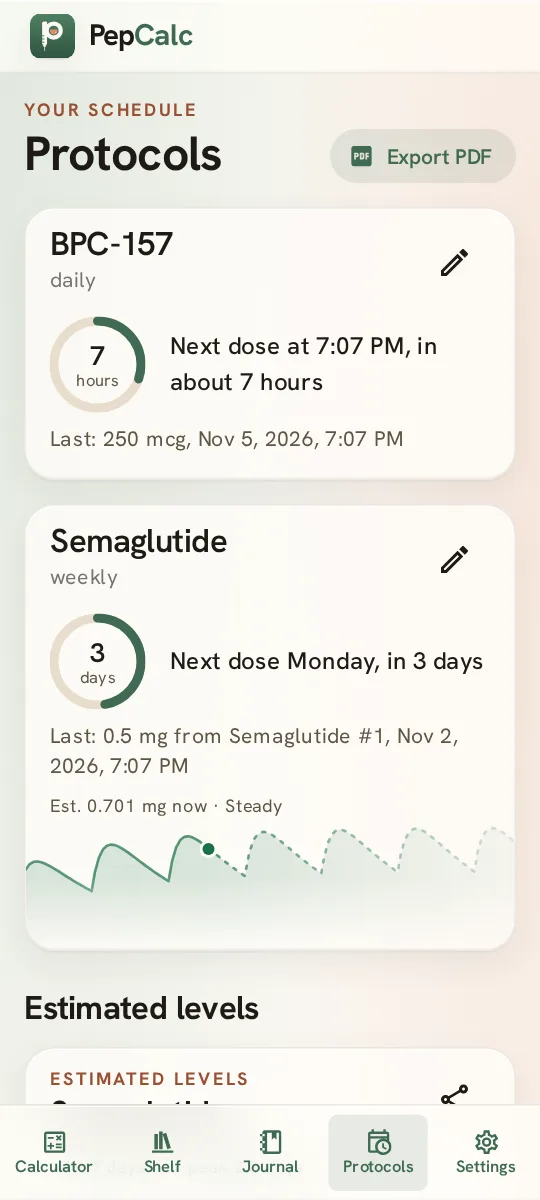
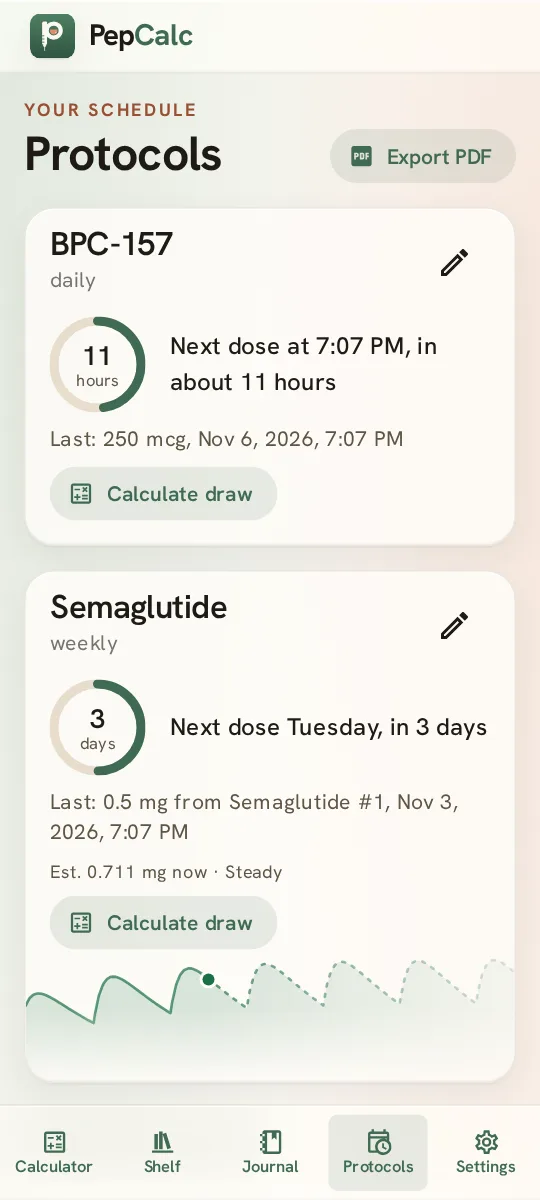
Retake the app screenshots and drop the between-marks claim

diff --git a/site/index.html b/site/index.html
@@ -171,10 +171,7 @@
             <article class="tile tile--4">
               <div>
                 <h3>Draw calculator</h3>
-                <p>
-                  Enter a dose. Read your syringe. Get a warning if a draw won't fit or lands
-                  between marks.
-                </p>
+                <p>Enter a dose. Read your syringe. Get a warning if a draw won't fit.</p>
               </div>
               <picture class="tile__shot">
                 <img
